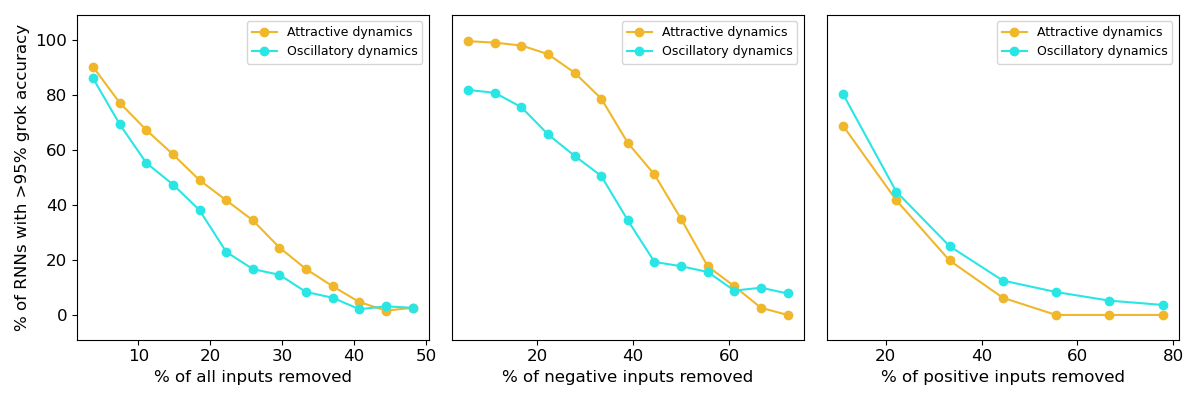
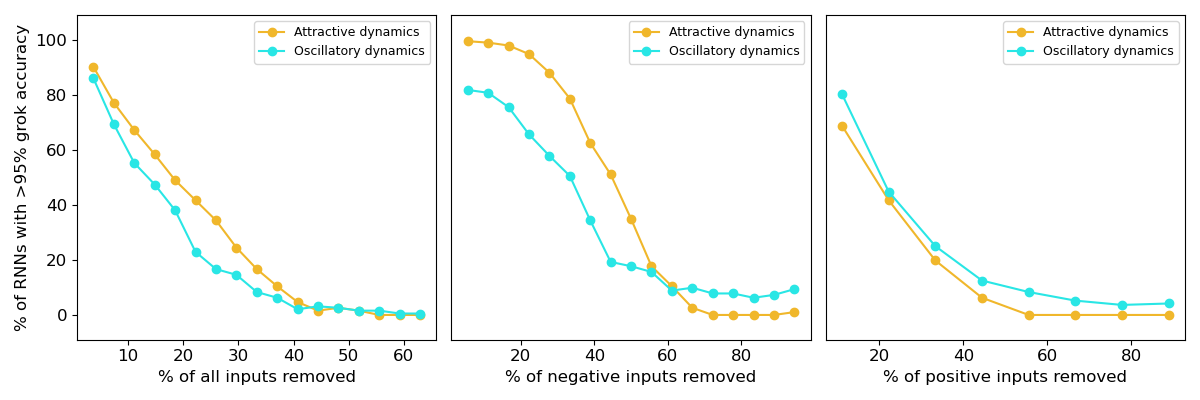
Final grokking graph

diff --git a/scripts/experiments/grok_experiment_2/generate_ploting_intermediate.py b/scripts/experiments/grok_experiment_2/generate_ploting_intermediate.py
@@ -4,19 +4,35 @@ import json
 
 base_folder = "/home/gridsan/kmurray/attract-or-oscillate/results/grok_experiment_2"
 
-# Initialize a dictionary to store the count of perfect grokking accuracy
+# Initialize a dictionary to store the count of near-perfect grokking accuracy
 perfect_grok_counts = {
     "0.1": {"None": {}, "-1": {}, "1": {}},
     "1.0": {"None": {}, "-1": {}, "1": {}},
 }
 
+# Load the list of failed experiments from failed_experiments.json
+failed_experiments_file = 'failed_experiments.json'
+if os.path.exists(failed_experiments_file):
+    with open(failed_experiments_file, 'r') as f:
+        failed_experiments = json.load(f)
+else:
+    failed_experiments = []
+
 experiment_id = 0  # Starting index for experiments
 for alpha in [0.1, 1.0]:
     str_alpha = str(alpha)
-    for grok in range(1, 14):
+    for grok in range(1, 27):
         for grok_label in [None, -1, 1]:
+            if grok_label == 1 and grok > 8:
+                continue
+            elif grok_label == -1 and grok > 17:
+                continue
+            
             str_grok_label = "None" if grok_label is None else str(grok_label)
-            if grok_label == 1 and grok > 7:
+            
+            if experiment_id in failed_experiments:
+                # Skip counting for this experiment as it is in the list of failed experiments
+                experiment_id += 1
                 continue
             
             # Initialize counter for the experiment
@@ -34,7 +50,7 @@ for alpha in [0.1, 1.0]:
                 if os.path.exists(metrics_file):
                     # Load the metrics history using pandas
                     df = pd.read_csv(metrics_file)
-                    # Check if there are any rows where grokking accuracy is 1.0
+                    # Check if there are any rows where grokking accuracy is 0.95 or more
                     if (df['grok_accuracy'] >= 0.95).any():
                         perfect_grok_count += 1
 
@@ -46,4 +62,4 @@ for alpha in [0.1, 1.0]:
 with open('near_perfect_grok_counts.json', 'w') as f:
     json.dump(perfect_grok_counts, f)
 
-print("perfect_grok_counts.json has been created.")
+print("near_perfect_grok_counts.json has been created.")

diff --git a/scripts/experiments/grok_experiment_2/grok_experiment_2_executable.py b/scripts/experiments/grok_experiment_2/grok_experiment_2_executable.py
@@ -3,12 +3,37 @@ import subprocess
 
 base_folder = "/home/gridsan/kmurray/attract-or-oscillate/results/grok_experiment_2"
 
+def all_trials_completed(experiment_folder):
+    """Check if all trial folders in the given experiment folder have a metrics_history.csv file."""
+    # Get the list of all tasks/trials in the experiment folder
+    for task_name in os.listdir(experiment_folder):
+        # Only consider folders with "task" in the name
+        if "task" not in task_name:
+            continue
+            
+        task_folder = os.path.join(experiment_folder, task_name)
+        
+        # Check if the path is a directory, skip if it's a file or a symlink
+        if not os.path.isdir(task_folder):
+            continue
+        
+        metrics_file = os.path.join(task_folder, "metrics_history.csv")
+        if not os.path.exists(metrics_file):
+            # If any trial is missing a metrics_history.csv file, return False
+            return False
+    
+    return True
+
 # Iterate over all experiment folders in base_folder
 for experiment_name in os.listdir(base_folder):
     experiment_folder = os.path.join(base_folder, experiment_name)
     
     # Check if the path is a directory, skip if it's a file or a symlink
     if not os.path.isdir(experiment_folder):
+        continue
+    
+    if all_trials_completed(experiment_folder):
+        # Skip this experiment as all trial folders have a metrics_history.csv file
         continue
     
     batch_script_path = os.path.join(experiment_folder, "run.sh")

diff --git a/scripts/experiments/grok_experiment_2/grok_experiment_2.py b/scripts/experiments/grok_experiment_2/grok_experiment_2.py
@@ -52,9 +52,11 @@ def create_experiment(alpha, grok, grok_label, experiment_id):
 
 experiment_id = 0  # Starting index for experiments
 for alpha in [0.1, 1.0]:
-    for grok in range(1, 14):
+    for grok in range(1, 27):
         for grok_label in [None, -1, 1]:
-            if grok_label == 1 and grok > 7:
+            if grok_label == 1 and grok > 8:
+                continue
+            elif grok_label == -1 and grok > 17:
                 continue
             create_experiment(alpha, grok, grok_label, experiment_id)
             experiment_id += 1

diff --git a/scripts/experiments/grok_experiment_2/check_experiments.py b/scripts/experiments/grok_experiment_2/check_experiments.py
@@ -8,9 +8,11 @@ def main():
     
     experiment_id = 0  # Starting index for experiments
     for alpha in [0.1, 1.0]:
-        for grok in range(1, 14):
+        for grok in range(1, 27):
             for grok_label in [None, -1, 1]:
-                if grok_label == 1 and grok > 7:
+                if grok_label == 1 and grok > 8:
+                    continue
+                elif grok_label == -1 and grok > 17:
                     continue
                 
                 # Construct the path to the experiment folder
